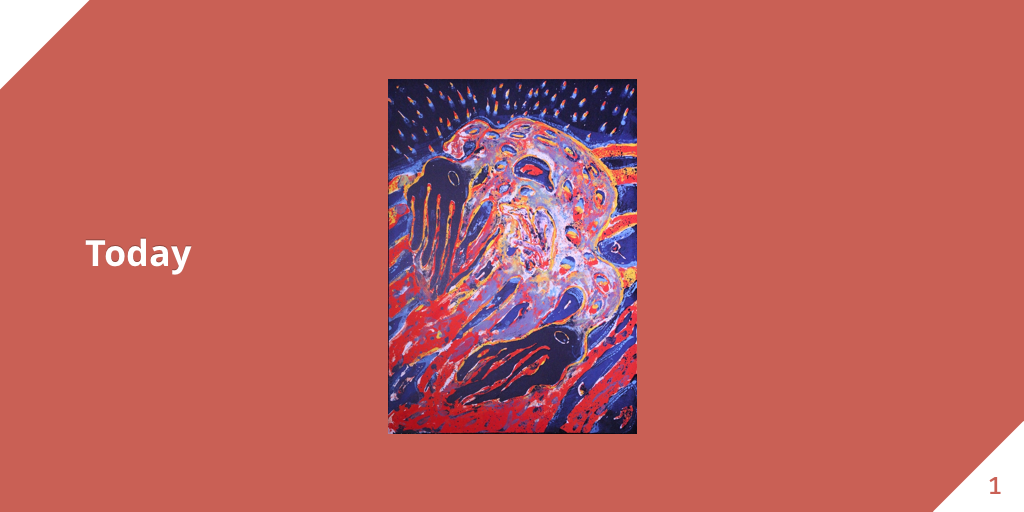
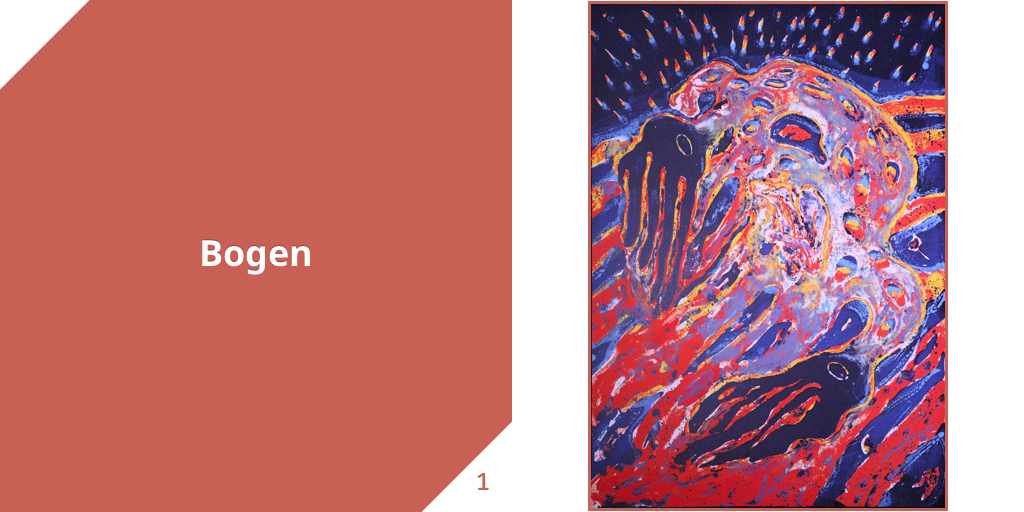
init

diff --git a/main.js b/main.js
@@ -20,7 +20,7 @@ var frame_motion = 20;
 
 const slideActions = new Map([
   [ 0, function() {
-    next_360 = 3;
+    next_360 = 2;
     frame_motion = 0;
   }],
   [ 1, function() {
@@ -28,6 +28,10 @@ const slideActions = new Map([
     frame_motion = 0;
   }],
   [ 2, function() {
+    next_360 = 4;
+    frame_motion = 0;
+  }],
+  [ 3, function() {
     show_grid = !show_grid;
     frame_motion = 0;
   }]
@@ -142,31 +146,13 @@ function init() {
   slides = new THREE.Group();
   scene.add( slides );
 
-  const test_slide = textureLoader.load( "slides/slide2.png" );
+  //const test_slide = textureLoader.load( "slides/slide2.png" );
 
   var slideImages = [
+    textureLoader.load( "slides/slide0.png" ),
     textureLoader.load( "slides/slide1.png" ),
-    test_slide,
-    test_slide,
-    test_slide,
-    test_slide,
-    test_slide,
-    test_slide,
-    test_slide,
-    test_slide,
-    test_slide,
-    test_slide,
-    test_slide,
-    test_slide,
-    test_slide,
-    test_slide,
-    test_slide,
-    test_slide,
-    test_slide,
-    test_slide,
-    test_slide,
-    test_slide,
-    test_slide
+    textureLoader.load( "slides/slide2.png" ),
+    textureLoader.load( "slides/slide3.png" )
   ];
 
   const plane_geo = new THREE.PlaneGeometry( 4, 2 );
